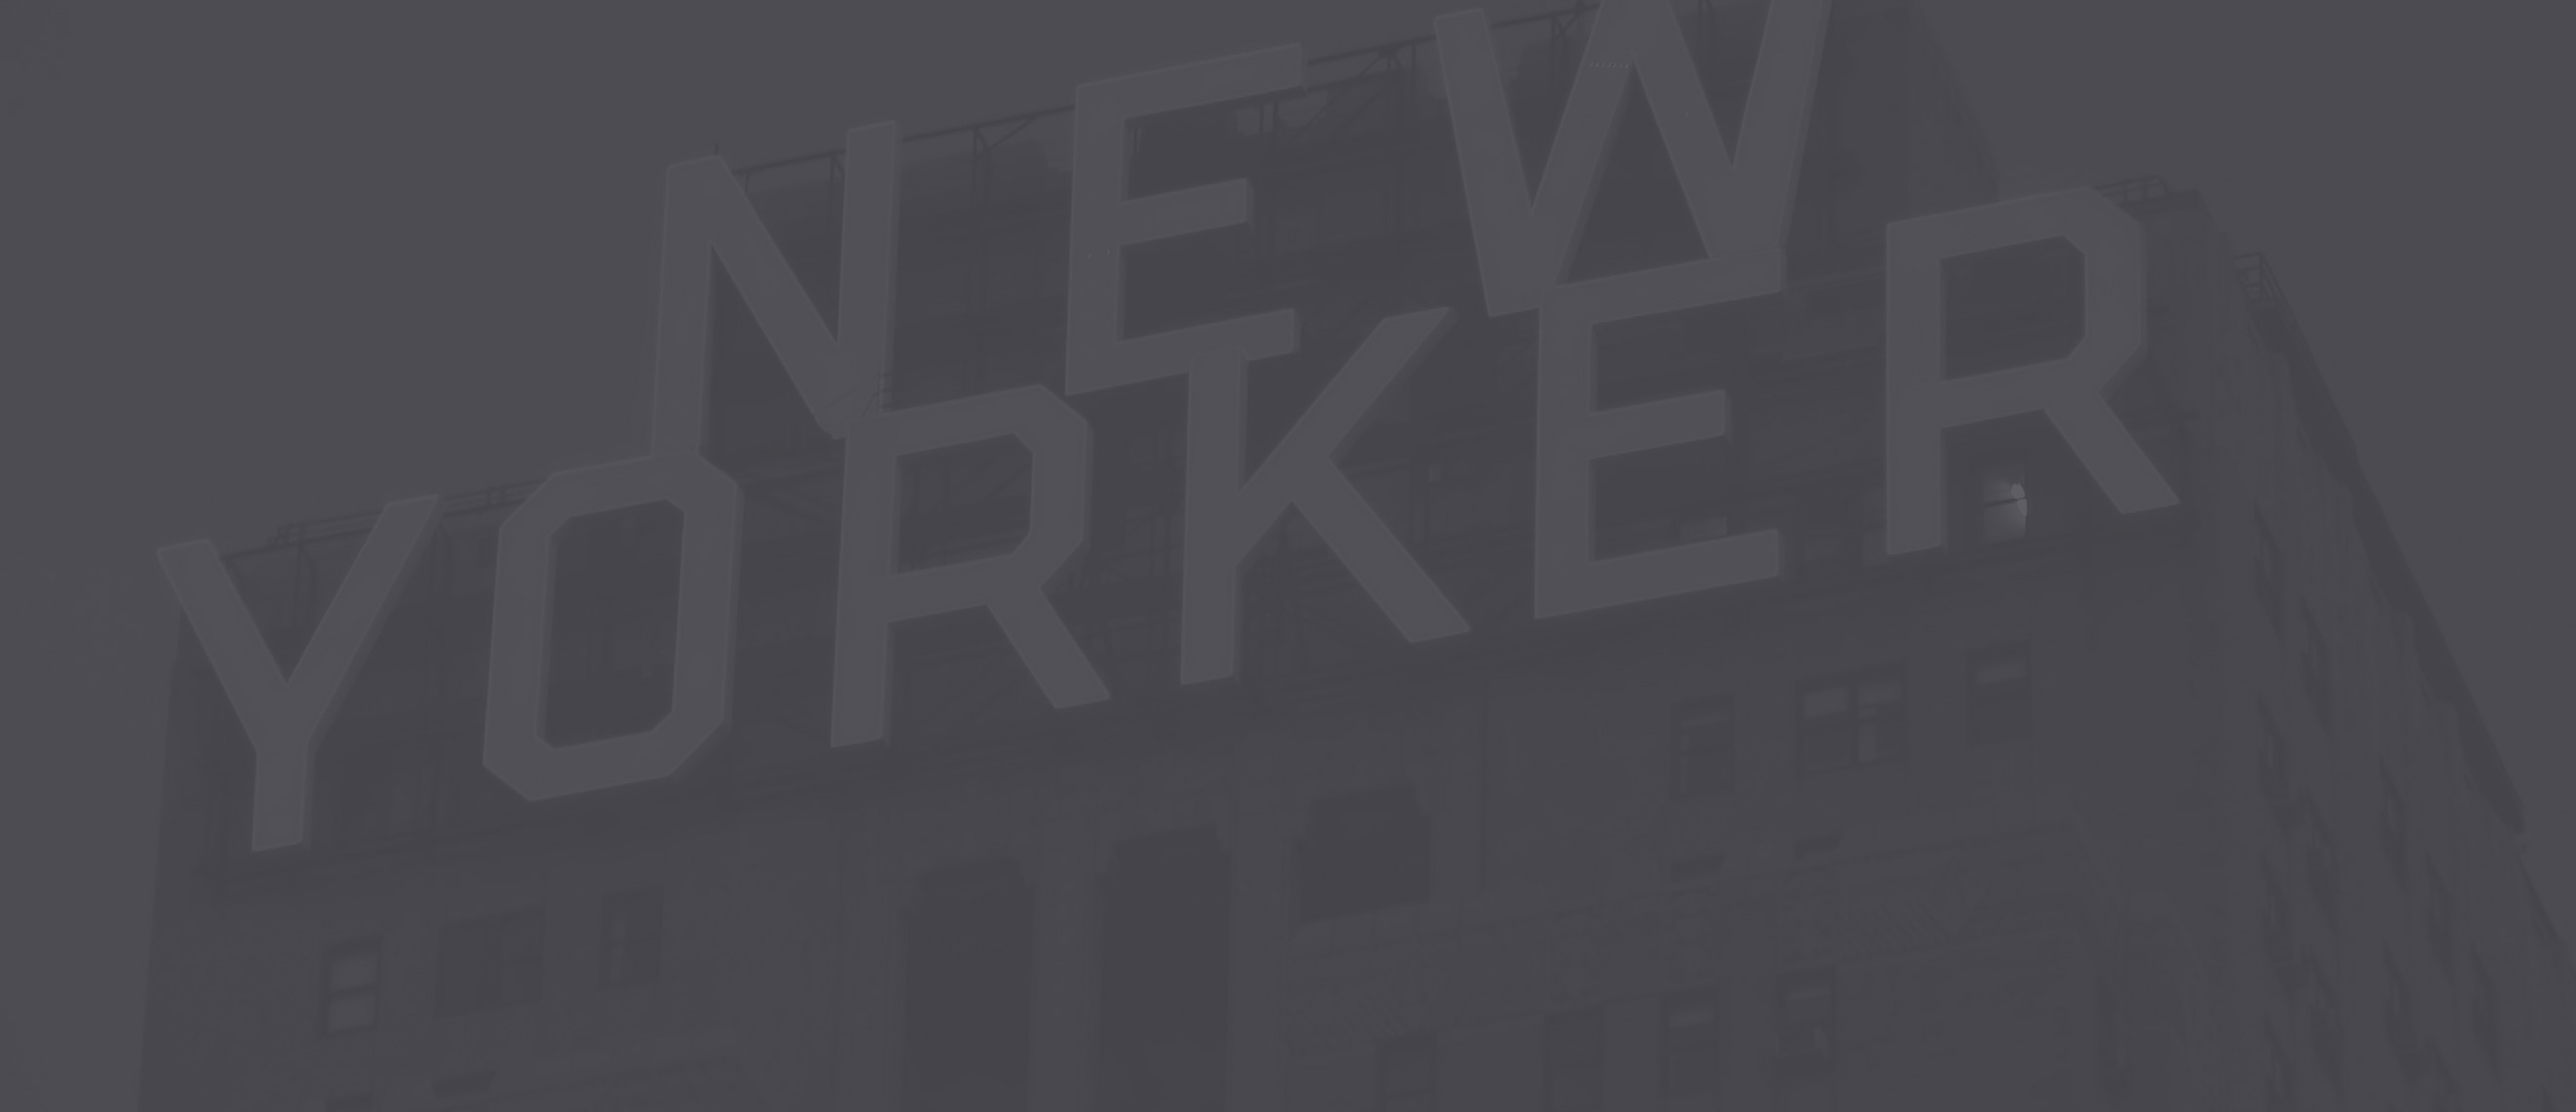
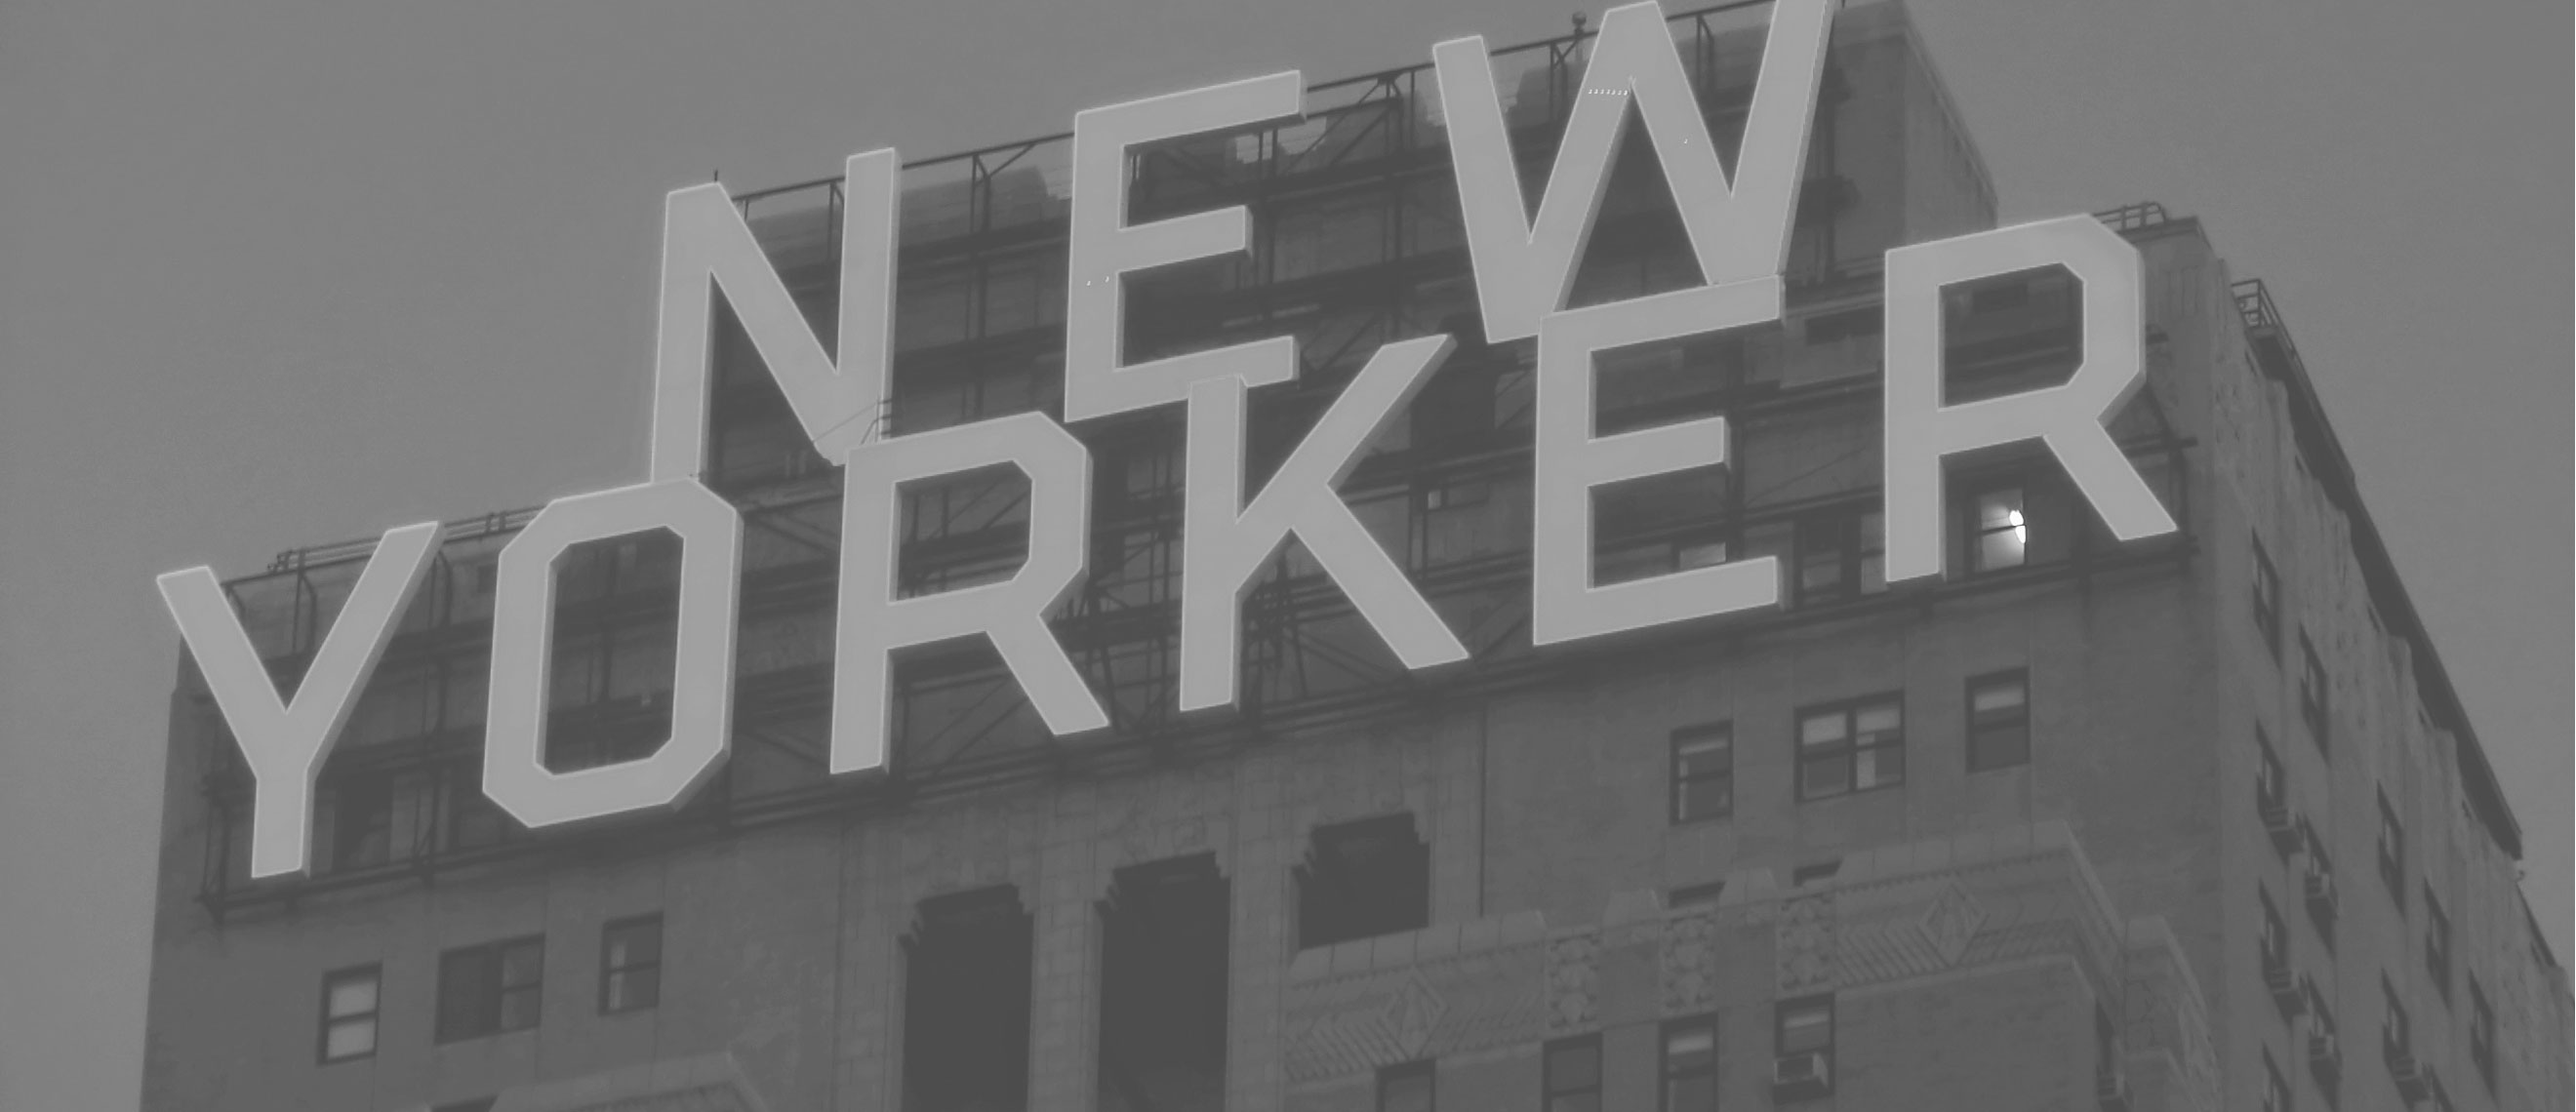
Dining 70%

diff --git a/_layouts/dining.html b/_layouts/dining.html
@@ -2,13 +2,15 @@
 layout: default
 ---
 <!--Banner here-->
-<section class="inner-page-banner location">
-	<h1>Gastronomy</h1>
-    <p>The restaurant and lounge offerings at The New Yorker Hotel are guaranteed to please even the most discerning palates. Whether you’re looking to satisfy a late-night craving at Tick Tock Diner, indulge in some hearty Tuscan cuisine, or sip a cocktail with friends, we’ve got you covered.</p>
+<section class="inner-page-banner dining">
+	<div class="overlay">
+        <h1>Gastronomy</h1>
+        <p>The restaurant and lounge offerings at The New Yorker Hotel are guaranteed to please even the most discerning palates. Whether you’re looking to satisfy a late-night craving at Tick Tock Diner, indulge in some hearty Tuscan cuisine, or sip a cocktail with friends, we’ve got you covered.</p>
+    </div>
 </section>
 
 <!--TickTok Diner-->
-<section class="intro-wrap home-rooms custom-carousel">
+<section class="intro-wrap home-rooms custom-carousel dining">
 	<div class="container-fluid">
         <div class="intro">
           	<div class="col-sm-7 no-padding">
@@ -40,41 +42,51 @@ layout: default
                 <div class="-right">
                    <h2>Tick Tock Diner</h2>
                     <p>This 24-hour diner is a New York institution, dishing out delicious American-style comfort food – everything from juicy burgers to crisp, fresh salads and an all-day breakfast menu. We’re particularly famous for our sandwiches – treat yourself to a Monte Christo, or a Triple Decker Club.</p>
-                    <!--<div class="btn-holder"><a href="/rooms/" class="btn-common">Discover all Rooms & Suites</a></div>-->
-                    <div class="hours"></div>
+                    <div class="hours">
+                    	<h5>Opening hours</h5>
+                        <p>
+                        	Breakfast, Lunch and Dinner<br>
+                        	24 hours a day, 7 days a week
+                        </p>
+                        <ul>
+                        	<li><span>T</span> <a href="tel:212-268-8444">(212) 268-8444</a></li>
+                            <li><span>F</span> <a href="tel:212-268-8443">(212) 268-8443</a></li>
+                            <li class="mail"><span>E</span> <a href="mailto:info@ticktockdinerny.com">info@ticktockdinerny.com</a></li>
+                        </ul>
+                    </div>
               </div>
           </div>
         </div>
     </div>
 </section>
 
-<section class="discover">
-	<div class="two-col-wrapper padding80 white_bg cover" style="background-image: url('/images/location/03.jpg');">
+<section class="discover dining">
+	<div class="two-col-wrapper padding80 white_bg cover" style="background-image: url('/images/dining/05.jpg');">
     	 <div class="container intro">
          	<div class="row no-gutters">
             	<div class="col-sm-6">
                   <div class="content">
-                      <h2>Discover<br>The big Apple</h2>
-                      <p>Eu eum dicunt euismod, in mollis accusata mandamus his. Nec te purto mundi, sed no diam regione definiebas, te omnis sanctus repudiare has. Eripuit feugait nam ne. Vix legere eirmod ullamcorper in, pri et sint inermis probatus.</p>
+                      <h2>Trattoria<br>Bianca</h2>
+                      <p>Open daily for lunch and dinner, this sleek Italian restaurant features Art Deco design and offers an oyster bar, our famous gorgonzola garlic bread, and delicious dishes including Chianti- braised short rib and seafood fritto misto. Wash it all down with a glass of wine from our extensive collection.</p>
                   </div>
                 </div>
                 <div class="col-sm-6">
-           	    	<div class="img"><img src="../images/location/02.jpg" alt="" class="img-responsive"/></div> 
+           	    	<div class="img"><img src="../images/dining/02.jpg" alt="" class="img-responsive"/></div> 
                 </div>
             </div>
          </div> 
          
          <div class="container">
-              <div class="row no-gutters">
+              <div class="row no-gutters m-t--150">
                   <div class="col-sm-6 no-gutters">
                        <div id="amenitiesCarousel" class="carousel slide no-shadow margin22" data-ride="carousel"> 
     					 <!-- Wrapper for slides -->
                          <div class="carousel-inner" role="listbox">
                            <div class="item active">
-                             <img src="/images/location/01.jpg" alt="Location">
+                             <img src="/images/dining/03.jpg" alt="Dining">
                            </div>
     					   <div class="item">
-                              <img src="/images/location/01.jpg" alt="Location">
+                              <img src="/images/dining/03.jpg" alt="Dining">
                            </div>
      					  </div>
     					 <!-- Left and right controls -->
@@ -88,16 +100,19 @@ layout: default
                   </div>
                   <div class="col-sm-6">
                        <div class="content-box">
-                               <h2 class="m-b-20"></h2>
-                               <h5>Address</h5>
-                               <p>481 8th Avenue & 34th Street<br>New York, NY 10001</p>
-                               <h5>Contact</h5>
-                               <p><a href="tel:212-971-0101">(212) 971 0101</a><br>
-								<a href="mailto:reservations@nyhotel.com">reservations@nyhotel.com</a><br>
-								<a href="mailto:guestservices@nyhotel.com">guestservices@nyhotel.com</a>
-                               </p>
+                                <div class="hours">
+                                    <h5>Opening hours</h5>
+                                    <p>
+                                        Lunch and Dinner Only<br>
+                                        Daily at 11:30 am and close at 10pm<br>
+                                        7 days a week, 365 days a year
+                                    </p>
+                                    <ul>
+                                        <li class="full"><span>T</span> <a href="tel:212-268-8444">(212) 268-8444</a></li>
+                                    </ul>
+                                </div>
 							   <div class="btn-holder">
-                                  <a class="btn-common" href="#"> Discover Hotel Amenities</a>
+                                  <a class="btn-common" href="#"> Make A Reservation</a>
                                </div>
                        </div>
                   </div>
@@ -105,63 +120,17 @@ layout: default
          </div> 
     </div>
 </section> 
-<h1 class="mega-title small-variant">Welcome to the heart of Manhatten</h1>
-<section class="full-map" style="background:url(../images/location/map.jpg) no-repeat; background-size:cover;">
-	<ul class="map-controls">
-    	<li><a href="#"><img src="../images/location/nav-icons/res.png" alt=""/></a></li>
-        <li><a href="#"><img src="../images/location/nav-icons/bar.png" alt=""/></a></li>
-        <li><a href="#"><img src="../images/location/nav-icons/coffee.png" alt=""/></a></li>
-        <li><a href="#"><img src="../images/location/nav-icons/sites.png" alt=""/></a></li>
-        <li><a href="#"><img src="../images/location/nav-icons/exh.png" alt=""/></a></li>
-        <li><a href="#"><img src="../images/location/nav-icons/mta.png" alt=""/></a></li>
-        <li><a href="#"><img src="../images/location/nav-icons/train.png" alt=""/></a></li>
-        <li><a href="#"><img src="../images/location/nav-icons/plane.png" alt=""/></a></li>
-    </ul>
-    <div class="help-text">Click on icons to view sites</div>
-</section>
-<section class="cta-one" style="background-image:url(/images/location-cta.jpg)">
+<section class="cta-one dining" style="background-image:url(/images/dining/04.jpg)">
 	<div class="container">
     	<div class="banner-overlay"></div>
         <div class="cta-content">
-            <h4>Discover NY from our legendary hotel</h4>
-            <h3>An Art Deco icon</h3>
-            <div class="btn-holder"><a href="/rooms/" class="btn-common btn-white">View Our Rooms</a></div>
+            <h4>Experience Private dining At trattoria bianca</h4>
+            <h3>Private dining</h3>
+            <p>Please email us at info@trattoriabianca.com or contact our sales staff at 212-268-8460 to schedule your Private Party.</p>
+            <div class="btn-holder"><a href="#" class="btn-common btn-white m-r-15">Make a Reservation</a><a href="#" class="btn-common btn-white">Contact us</a></div>
         </div>
     </div>
 </section>
-<section class="offer-section">
-	
-	<h4>Latest Events & Happenings</h4>
-
-	<div class="container">
-	<div  class="row">
-	<div class="col-sm-6 col-md-3">
-		<img src="/images/events-happenings/01.jpg" alt="">
-		<h5>Event 01</h5>
-		<a href="#"  class="view-offer">View Event +</a>
-	</div>
-	<div class="col-sm-6 col-md-3">
-		<img src="/images/events-happenings/02.jpg" alt="">
-		<h5>Event 02</h5>
-		<a href="#" class="view-offer">View Event +</a>
-	</div>
-	<div class="col-sm-6 col-md-3">
-		<img src="/images/events-happenings/03.jpg" alt="">
-		<h5>Event 03</h5>
-		<a href="#" class="view-offer">View Event +</a>
-	</div>
-	<div class="col-sm-6 col-md-3">
-		<img src="/images/events-happenings/04.jpg" alt="">
-		<h5>Event 04</h5>
-		<a href="#" class="view-offer">View Event +</a>
-	</div>
-
-	</div>
-	</div>
-	<a href="/events/" class="btn-common btn-white">View All Event</a>
-
-</section>
-{% include newsletter.html %}
 {% include twitter-instagram.html %}
 
 

diff --git a/_sass/_dining.scss b/_sass/_dining.scss
@@ -1,7 +1,61 @@
 /*Dining page styles here*/
-
-.intro{
+.m-t--150{ margin-top:-150px;}
+.m-r-15{ margin-right:15px;}
+.dining{
+	.intro{
+		@media (max-width:768px){
+			h2{ margin-top:40px;}
+		}
+	}
 	.hours{
-		border:solid 1px #bfbfc1;	
-	}	
+			text-align:center;
+			border:solid 1px #bfbfc1; max-width:83%;
+			margin:80px 0 0;	
+			@media (max-width:768px){ margin:80px auto 0;}
+			h5 {
+				font-family: "BrandonGrotesqueWeb-Bold";
+				font-size: 14px;
+				text-transform: uppercase;
+				letter-spacing: 2px;
+				text-align:center;
+				color: #101018;
+				margin:-8px auto 0;
+				background:$bg;
+				padding: 0 10px;
+				width:165px;
+			}
+			p{ width:auto; max-width:none; color:$grey-text; padding:40px 0;}
+			ul{
+				padding:10px 0; border-top:solid 1px #bfbfc1; margin:0 auto;text-align:center; display:flex;
+				li{ list-style:none; float:left; padding:0px 2px; color:$grey-text; font-size:13px; width:28%;
+					a{ color:$grey-text; font-style:italic;}
+					span{ text-transform:uppercase; color:$text; font-family:$main-font-bold; font-style:normal;}
+					&.mail{ width:44%;}
+					&.full{ width:100%;}
+					&:before{ display:none;}
+				}	
+			}
+			
+		}	
+	&.discover{
+		.intro{
+			.img{ height:474px;}	
+		}
+		.hours{
+			max-width:100%; margin:100px 0 0;
+			ul{ padding:10px 0;}	
+			h5{ background:#e6e6e6;}
+		}	
+	}
+	&.cta-one{
+		.cta-content{
+			p{
+				color: #ffffff;
+				max-width: 660px;
+				margin: 0 auto;
+				padding: 0 20px 85px; max-width:450px;
+			}
+			h3{ padding:100px 0 35px;}	
+		}	
+	}
 }

diff --git a/_sass/_location.scss b/_sass/_location.scss
@@ -1,6 +1,7 @@
 /*Inner Page common banner*/
 
 .inner-page-banner{
+	position:relative;
 	display:table;
 	background:$grey-bg;
 	height:424px;
@@ -24,6 +25,7 @@
 		padding:120px 0 20px !important;	
 		@media (max-width:768px){
 			padding-top:60px !important;
+			font-size:42px !important;
 		}
 	}
 	p{ color:$white; max-width:660px; margin:0 auto; padding:0 20px;}
@@ -32,6 +34,17 @@
 	
 	&.location{
 		background:url(../images/location-banner.jpg) no-repeat; background-size:cover;
+	}
+	&.dining{
+		background:url(../images/dining-banner.jpg) no-repeat; background-size:cover;
+	}
+	.overlay{
+		position: absolute;
+		top: 0;
+		background: rgba(16,16,24,.75);
+		width: 100%;
+		height: 100%;
+		display: block;
 	}
 }
 
@@ -99,10 +112,14 @@
 			text-transform: uppercase;
 			color: #0a0a12;
 			letter-spacing: 1px;
+			
 		}
 		.content-box{
-			h5{ text-align:left; color:#1a87e9; padding-bottom:30px;}
+			h5{ text-align:left; color:#1a87e9; padding-bottom:30px;
+				@media (max-width:768px){ text-align:center;}
+			}
 			p,i{ color:$grey-text;}
+			@media (max-width:768px){ text-align:center;}
 		}
 	}
 }

diff --git a/_layouts/location.html b/_layouts/location.html
@@ -3,8 +3,10 @@ layout: default
 ---
 <!--Banner here-->
 <section class="inner-page-banner location">
-	<h1>Prime location</h1>
-    <p>Wyndham New Yorker’s picture-perfect location in Midtown West, just moments from the Jacob Javits Center and Penn Station, puts some of the city’s most remarkable attractions right at your doorstep.</p>
+	<div class="overlay">
+        <h1>Prime location</h1>
+        <p>Wyndham New Yorker’s picture-perfect location in Midtown West, just moments from the Jacob Javits Center and Penn Station, puts some of the city’s most remarkable attractions right at your doorstep.</p>
+    </div>
 </section>
 
 <section class="discover">
@@ -96,7 +98,7 @@ layout: default
                        </div>
                   </div>
                   <div class="col-sm-5">
-                       <img src="/images/location/madison.jpg" alt="Mdison Square Garden">
+                       <img src="/images/location/madison.jpg" alt="Madison Square Garden">
                   </div>
     
                 </div>

diff --git a/_sass/_about.scss b/_sass/_about.scss
@@ -1,3 +1,4 @@
+
 .our-art{
 	h2{
 		padding: 0 0 40px 0;
@@ -22,6 +23,7 @@
 		height: 100%;
 		display: block;
 	}
+	
 }
 .two-cal-wraper-full{
 	position: relative;
